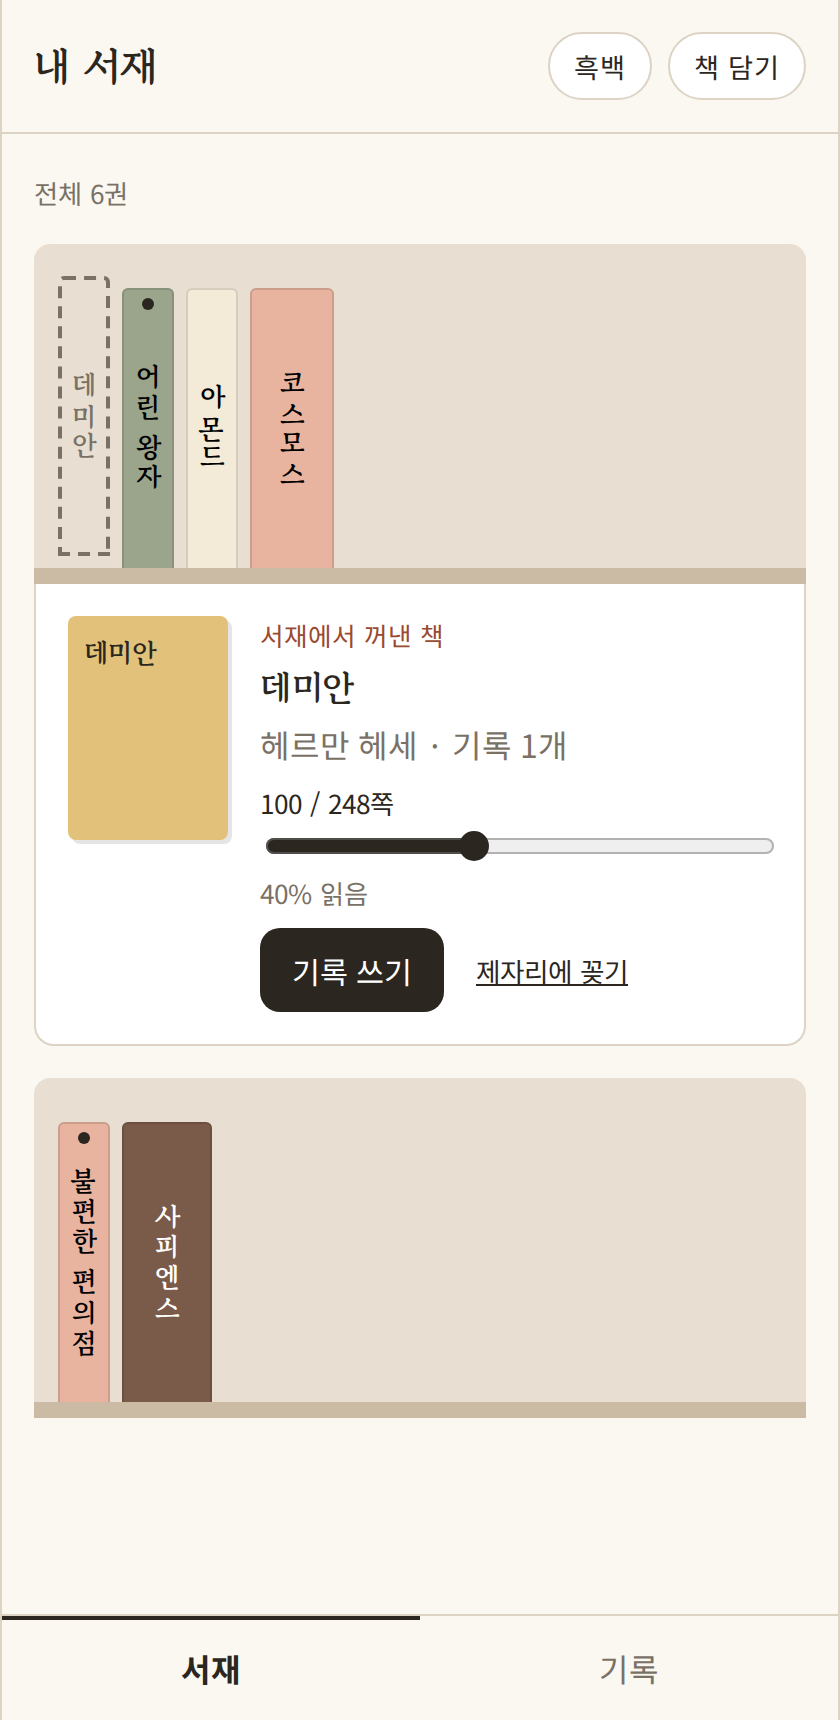
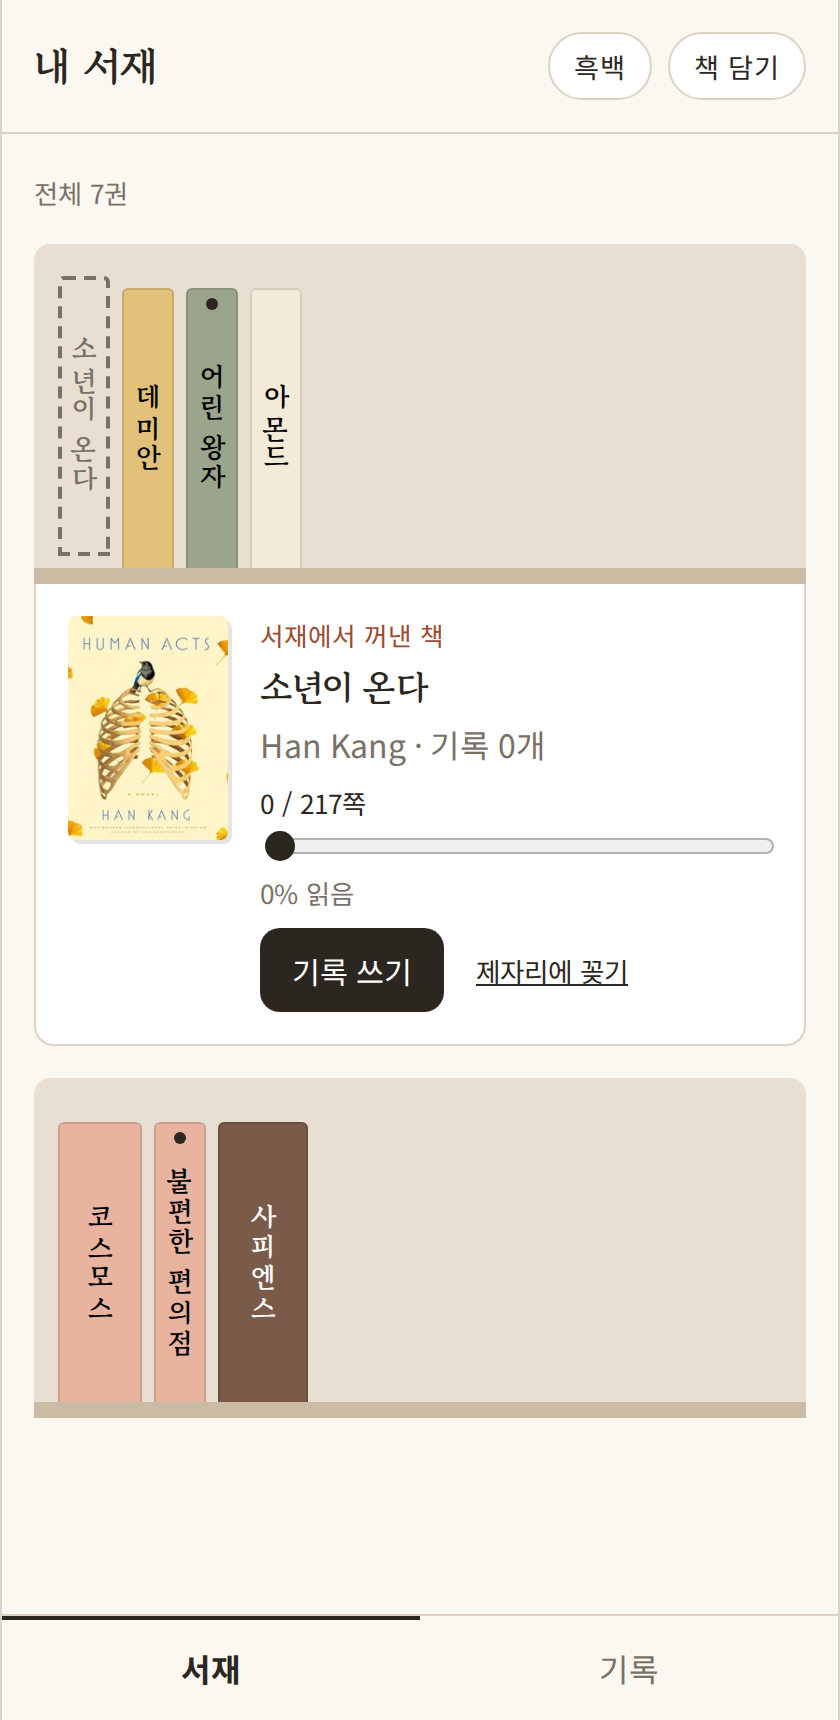
2차 보강: 실제 책 검색, ISBN 검색, 표지, GitHub Pages 배포
- Open Library 공개 API로 제목·저자 검색 (입력 지연 후 요청, 이전 요청 취소)
- 10·13자리 ISBN 입력 시 그 책을 바로 검색
- 서랍과 책 상세에 표지 사진 표시
- npm run deploy로 GitHub Pages(gh-pages 브랜치) 배포

diff --git a/src/pages/AddBookPage.jsx b/src/pages/AddBookPage.jsx
@@ -1,7 +1,8 @@
 import { useState } from 'react'
 import { useNavigate } from 'react-router-dom'
 import { useLibrary } from '../hooks/LibraryContext.jsx'
-import { searchCatalog } from '../data/catalog.js'
+import useBookSearch from '../hooks/useBookSearch.js'
+import { toIsbn } from '../api/bookSearch.js'
 
 const COLORS = ['ochre', 'sage', 'rose', 'cream', 'brown', 'navy']
 
@@ -10,12 +11,12 @@ export default function AddBookPage() {
   const navigate = useNavigate()
   const [keyword, setKeyword] = useState('')
   const [form, setForm] = useState({ title: '', author: '', pages: '' })
-
-  const results = searchCatalog(keyword)
+  const { results, status } = useBookSearch(keyword)
 
   const save = (book) => {
     const color = COLORS[Math.floor(Math.random() * COLORS.length)]
-    addBook({ ...book, pages: Number(book.pages) || 100, color })
+    const { id: _searchId, ...rest } = book
+    addBook({ ...rest, pages: Number(book.pages) || 200, color })
     navigate('/')
   }
 
@@ -29,26 +30,37 @@ export default function AddBookPage() {
     <div className="stack">
       <h1 className="page-title">책 담기</h1>
 
-      <section className="card">
+      <section className="card stack">
         <h2>검색해서 담기</h2>
         <input
           className="input"
-          placeholder="제목이나 저자로 검색"
+          placeholder="제목, 저자 또는 ISBN(바코드 숫자)"
           value={keyword}
           onChange={(e) => setKeyword(e.target.value)}
         />
-        {keyword && results.length === 0 && <p className="muted small">검색 결과가 없어요. 아래에서 직접 입력해 주세요.</p>}
+        {toIsbn(keyword) && <p className="muted small">ISBN으로 찾는 중이에요.</p>}
+        {status === 'loading' && <p className="muted small">찾는 중…</p>}
+        {status === 'offline' && <p className="muted small">인터넷 연결이 없어 예시 목록에서 찾았어요.</p>}
+        {status === 'done' && results.length === 0 && (
+          <p className="muted small">검색 결과가 없어요. 아래에서 직접 입력해 주세요.</p>
+        )}
         <ul className="results">
           {results.map((book) => (
-            <li key={book.title}>
-              <div>
+            <li key={book.id}>
+              {book.coverUrl
+                ? <img className="result-cover" src={book.coverUrl} alt="" loading="lazy" />
+                : <div className="result-cover placeholder" aria-hidden="true" />}
+              <div className="result-info">
                 <strong>{book.title}</strong>
-                <span className="muted small"> · {book.author} · {book.pages}쪽</span>
+                <span className="muted small">
+                  {[book.author, book.pages && `${book.pages}쪽`].filter(Boolean).join(' · ')}
+                </span>
               </div>
               <button className="btn small" onClick={() => save(book)}>담기</button>
             </li>
           ))}
         </ul>
+        <p className="muted small">도서 정보: Open Library</p>
       </section>
 
       <form className="card stack" onSubmit={onSubmit}>

diff --git a/src/index.css b/src/index.css
@@ -68,8 +68,12 @@ a { color: inherit; }
 .drawer { display: flex; gap: 16px; padding: 16px; background: #fff; border: 1px solid var(--line);
   border-top: 0; border-radius: 0 0 10px 10px; animation: open 0.2s ease-out; }
 @keyframes open { from { opacity: 0; transform: translateY(-6px); } }
-.drawer-cover { width: 80px; height: 112px; flex-shrink: 0; border-radius: 4px; padding: 8px;
-  font-family: 'Gowun Batang', serif; font-weight: 700; font-size: 0.85rem; box-shadow: 2px 2px 0 rgba(0,0,0,0.1); }
+.cover { flex-shrink: 0; border-radius: 4px; object-fit: cover; box-shadow: 2px 2px 0 rgba(0,0,0,0.1); background: var(--wood); }
+.cover-text { padding: 8px; font-family: 'Gowun Batang', serif; font-weight: 700; font-size: 0.85rem; }
+.drawer-cover { width: 80px; height: 112px; }
+.book-head { display: flex; gap: 16px; align-items: flex-start; }
+.book-cover { width: 96px; height: 136px; }
+.book-meta { flex: 1; min-width: 0; }
 .drawer-body { flex: 1; }
 .drawer-body h2 { margin: 0; }
 .progress { display: flex; flex-direction: column; gap: 2px; margin-top: 8px; }
@@ -79,7 +83,9 @@ a { color: inherit; }
 .card { background: #fff; border: 1px solid var(--line); border-radius: 12px; padding: 16px; }
 .input { width: 100%; border: 1px solid var(--line); border-radius: 8px; padding: 10px; font: inherit; background: var(--paper); }
 .results { list-style: none; padding: 0; margin: 8px 0 0; }
-.results li { display: flex; justify-content: space-between; align-items: center; padding: 8px 0; border-bottom: 1px solid var(--line); }
+.results li { display: flex; gap: 12px; align-items: center; padding: 8px 0; border-bottom: 1px solid var(--line); }
+.result-cover { width: 40px; height: 58px; flex-shrink: 0; border-radius: 3px; object-fit: cover; background: var(--wood); }
+.result-info { flex: 1; min-width: 0; display: flex; flex-direction: column; }
 
 /* 기록 */
 .record { background: #fff; border: 1px solid var(--line); border-radius: 12px; padding: 14px 16px; }

diff --git a/src/api/bookSearch.js b/src/api/bookSearch.js
@@ -1,0 +1,35 @@
+// 도서 검색: Open Library 공개 API (키 없이 사용 가능)
+// https://openlibrary.org/dev/docs/api/search
+const SEARCH_URL = 'https://openlibrary.org/search.json'
+const FIELDS = 'key,title,author_name,number_of_pages_median,cover_i,isbn'
+
+// 하이픈을 뺀 10자리 또는 13자리 숫자면 ISBN으로 본다 (책 뒷면 바코드 아래 숫자)
+export function toIsbn(text) {
+  const digits = text.replace(/[-\s]/g, '')
+  return /^(\d{9}[\dXx]|\d{13})$/.test(digits) ? digits : null
+}
+
+export function coverUrl(coverId, size = 'M') {
+  return coverId ? `https://covers.openlibrary.org/b/id/${coverId}-${size}.jpg` : null
+}
+
+export async function searchBooks(keyword, { signal } = {}) {
+  const isbn = toIsbn(keyword)
+  const params = new URLSearchParams({
+    q: isbn ? `isbn:${isbn}` : keyword.trim(),
+    fields: FIELDS,
+    limit: '10',
+  })
+  const res = await fetch(`${SEARCH_URL}?${params}`, { signal })
+  if (!res.ok) throw new Error(`검색 실패 (${res.status})`)
+  const data = await res.json()
+
+  return data.docs.map((doc) => ({
+    id: doc.key,
+    title: doc.title,
+    author: doc.author_name?.[0] ?? '',
+    pages: doc.number_of_pages_median ?? null,
+    coverUrl: coverUrl(doc.cover_i),
+    isbn: isbn ?? doc.isbn?.find((n) => n.length === 13) ?? null,
+  }))
+}

diff --git a/src/hooks/useBookSearch.js b/src/hooks/useBookSearch.js
@@ -1,0 +1,40 @@
+import { useEffect, useState } from 'react'
+import { searchBooks } from '../api/bookSearch.js'
+import { searchCatalog } from '../data/catalog.js'
+
+// 입력이 멈추고 0.4초 뒤에 검색하고, 새 입력이 오면 이전 요청은 취소한다
+export default function useBookSearch(keyword) {
+  const [results, setResults] = useState([])
+  const [status, setStatus] = useState('idle') // idle | loading | done | offline
+
+  useEffect(() => {
+    const q = keyword.trim()
+    if (q.length < 2) {
+      setResults([])
+      setStatus('idle')
+      return
+    }
+
+    const controller = new AbortController()
+    const timer = setTimeout(async () => {
+      setStatus('loading')
+      try {
+        const books = await searchBooks(q, { signal: controller.signal })
+        setResults(books)
+        setStatus('done')
+      } catch (err) {
+        if (err.name === 'AbortError') return
+        // 인터넷이 안 되면 내장된 예시 목록에서라도 찾아 준다
+        setResults(searchCatalog(q).map((b) => ({ ...b, id: b.title, coverUrl: null })))
+        setStatus('offline')
+      }
+    }, 400)
+
+    return () => {
+      clearTimeout(timer)
+      controller.abort()
+    }
+  }, [keyword])
+
+  return { results, status }
+}

diff --git a/src/pages/BookPage.jsx b/src/pages/BookPage.jsx
@@ -3,6 +3,7 @@ import { useNavigate, useParams } from 'react-router-dom'
 import { useLibrary } from '../hooks/LibraryContext.jsx'
 import ProgressInput from '../components/ProgressInput.jsx'
 import RecordCard from '../components/RecordCard.jsx'
+import Cover from '../components/Cover.jsx'
 
 export default function BookPage() {
   const { id } = useParams()
@@ -31,10 +32,14 @@ export default function BookPage() {
 
   return (
     <div className="stack">
-      <div>
-        <h1 className="page-title">{book.title}</h1>
-        <p className="muted">{book.author}</p>
-        <ProgressInput book={book} />
+      <div className="book-head">
+        <Cover book={book} className="book-cover" />
+        <div className="book-meta">
+          <h1 className="page-title">{book.title}</h1>
+          <p className="muted">{book.author}</p>
+          {book.isbn && <p className="muted small">ISBN {book.isbn}</p>}
+          <ProgressInput book={book} />
+        </div>
       </div>
 
       <form className="card stack" onSubmit={onSubmit}>

diff --git a/src/components/Drawer.jsx b/src/components/Drawer.jsx
@@ -1,12 +1,13 @@
 import { Link } from 'react-router-dom'
 import ProgressInput from './ProgressInput.jsx'
+import Cover from './Cover.jsx'
 
 // 책을 누르면 그 줄 아래에 열리는 서랍
 export default function Drawer({ book, recordCount, onClose }) {
   const percent = book.pages ? Math.round((book.currentPage / book.pages) * 100) : 0
   return (
     <section className="drawer">
-      <div className={`drawer-cover spine-${book.color ?? 'cream'}`}>{book.title}</div>
+      <Cover book={book} className="drawer-cover" />
       <div className="drawer-body">
         <p className="eyebrow">서재에서 꺼낸 책</p>
         <h2>{book.title}</h2>

diff --git a/src/components/Cover.jsx b/src/components/Cover.jsx
@@ -1,0 +1,7 @@
+// 표지 사진이 있으면 사진을, 없으면 책등 색에 제목을 써서 보여 준다
+export default function Cover({ book, className = '' }) {
+  if (book.coverUrl) {
+    return <img className={`cover ${className}`} src={book.coverUrl} alt={`${book.title} 표지`} />
+  }
+  return <div className={`cover cover-text spine-${book.color ?? 'cream'} ${className}`}>{book.title}</div>
+}

diff --git a/vite.config.js b/vite.config.js
@@ -1,6 +1,8 @@
 import { defineConfig } from 'vite'
 import react from '@vitejs/plugin-react'
 
-export default defineConfig({
+// GitHub Pages 주소(/my-library-web/)에서 열리도록 배포할 때만 base를 바꾼다
+export default defineConfig(({ command, isPreview }) => ({
+  base: command === 'build' || isPreview ? '/my-library-web/' : '/',
   plugins: [react()],
-})
+}))

diff --git a/src/main.jsx b/src/main.jsx
@@ -7,7 +7,7 @@ import './index.css'
 
 ReactDOM.createRoot(document.getElementById('root')).render(
   <React.StrictMode>
-    <BrowserRouter>
+    <BrowserRouter basename={import.meta.env.BASE_URL}>
       <LibraryProvider>
         <App />
       </LibraryProvider>

diff --git a/README.md b/README.md
@@ -1,20 +1,29 @@
 # 내 서재 (웹)
 
 읽은 책과 밑줄 친 문장, 그때 든 생각을 책별로 모아 두는 개인 독서 기록 웹앱입니다.
-오즈코딩스쿨 KDT **2차 프로젝트**로, 1차 때 기획한 ‘내 서재’의 핵심 흐름을 React로 구현했습니다.
+오즈코딩스쿨 KDT **2차 프로젝트**입니다. 1차에서 Expo 앱으로 만든 ‘내 서재’를 수업에서 배운 React로 웹에 옮기고, 1차 발표 때 정한 다음 목표(실제 책 검색, 진도 갱신, 지난 기록 다시 만나기)를 구현했습니다.
 
-| 서재 | 책을 꺼낸 서랍 | 책 검색 | 기록 탭 |
+**바로 열어 보기:** https://leeyuul0g-beep.github.io/my-library-web/
+
+| 서재와 서랍 | 책 검색 | ISBN 검색 | 기록 탭 |
 | --- | --- | --- | --- |
-| ![서재](docs/screenshots/shelf.png) | ![서랍](docs/screenshots/drawer.png) | ![검색](docs/screenshots/search.png) | ![기록](docs/screenshots/records.png) |
+| ![서랍](docs/screenshots/drawer.png) | ![검색](docs/screenshots/search.png) | ![ISBN](docs/screenshots/isbn.png) | ![기록](docs/screenshots/records.png) |
 
 ## 주요 기능
 
+**2차에 새로 넣은 것**
+- **실제 책 검색**: Open Library 공개 API로 제목·저자 검색, 표지 사진까지 담기
+- **ISBN 검색**: 책 뒷면 바코드 아래 숫자(10·13자리)를 넣으면 그 책을 바로 찾음
+- **진도 갱신**: 슬라이더 하나로 읽은 쪽수를 바로 저장
+- **지난 기록 다시 만나기**: 기록 탭 맨 위에 예전 문장을 하나씩 보여 줌
+- **웹 배포**: 설치 없이 휴대폰·PC 브라우저에서 바로 열림 (GitHub Pages)
+
+**1차 앱에서 웹으로 옮긴 것**
 - **서재와 책등**: 쪽수만큼 두꺼운 책등, 세로로 쓴 제목. 다 읽은 책은 점으로 표시
 - **줄 아래 서랍**: 책을 누르면 그 줄 바로 아래에 저자·진도·기록 쓰기가 열리고, 꺼낸 자리는 점선으로 남음
-- **진도 갱신**: 슬라이더 하나로 읽은 쪽수를 바로 저장
-- **책 담기**: 제목·저자 검색(예시 도서 목록) 또는 직접 입력
+- **책 담기**: 검색해서 담거나 직접 입력
 - **기록 쓰기**: 밑줄 친 문장, 생각, 쪽수를 책에 붙여 저장
-- **기록 모아보기**: 전체 기록 검색, ‘지난 기록 다시 만나기’
+- **기록 모아보기**: 문장·생각·책 제목으로 전체 기록 검색
 - **흑백 모드**: 버튼 하나로 화면 전체를 흑백으로 전환
 
 ## 실행 방법
@@ -26,38 +35,43 @@ npm run dev
 
 브라우저에서 http://localhost:5173 을 엽니다. 데이터는 브라우저의 localStorage에 저장됩니다.
 처음 실행하면 예시 책 6권과 기록 3개가 들어 있습니다(브라우저 저장소를 지우면 초기화).
+책 검색은 인터넷이 필요하고, 연결이 없으면 내장된 예시 목록에서 찾습니다.
 
 ## 기술 스택
 
 - React 18, Vite
 - React Router (화면 4개: 서재 `/`, 책 담기 `/add`, 책 상세 `/books/:id`, 기록 `/records`)
 - Context API + 직접 만든 `useLocalStorage` 훅
+- `fetch` + `AbortController`로 Open Library 검색 (입력이 멈춘 뒤 0.4초 후 요청, 이전 요청 취소)
+- GitHub Pages 배포 (`npm run deploy` → gh-pages 브랜치)
 
 ## 폴더 구조
 
 ```
 src/
 ├─ App.jsx                 라우팅, 흑백 모드
+├─ api/bookSearch.js       Open Library 검색, ISBN 판별, 표지 주소
 ├─ hooks/
 │  ├─ LibraryContext.jsx   책·기록 상태와 추가/삭제 함수
-│  └─ useLocalStorage.js   localStorage 자동 저장 훅
+│  ├─ useLocalStorage.js   localStorage 자동 저장 훅
+│  └─ useBookSearch.js     검색 지연·취소·오프라인 대체
 ├─ pages/                  ShelfPage, AddBookPage, BookPage, RecordsPage
-├─ components/             Header, TabBar, Spine, Drawer, ProgressInput, RecordCard
+├─ components/             Header, TabBar, Spine, Drawer, Cover, ProgressInput, RecordCard
 └─ data/                   예시 데이터, 검색용 도서 목록
 ```
 
 ## 1차 → 2차
 
-| 1차 때 정한 다음 목표 | 2차 결과 |
+| 1차 발표 때 정한 다음 목표 | 2차 결과 |
 | --- | --- |
-| 책 검색으로 등록 | 구현 (예시 도서 목록 검색) |
-| 진도를 한 번에 갱신 | 구현 (서랍 안 슬라이더) |
-| 지난 기록 다시 만나기 | 구현 (기록 탭 상단) |
-| 도서 API · 계정 동기화 | 3차 목표 |
+| 책 검색·바코드로 등록 | 구현: 실제 도서 API 검색 + ISBN 검색 + 표지 |
+| 모든 화면을 서가 디자인으로 통일 | 구현: 4개 화면 같은 톤 |
+| 진도 한 번에 갱신, 지난 기록 다시 만나기 | 구현: 서랍 안 슬라이더, 기록 탭 상단 |
+| 실제 기기 검증, 계정 동기화 | 일부: 웹 배포로 기기 상관없이 열림 / 동기화는 3차 |
 
 ## 3차 계획
 
-- [ ] 도서 검색 Open API 연동
-- [ ] 로그인과 서버 저장
-- [ ] 배포와 반응형 레이아웃
+- [ ] 로그인과 서버 저장 (다른 기기에서 같은 서재)
+- [ ] 카메라로 바코드 찍어서 담기, 한국 책 검색 정확도 높이기(카카오 책 검색)
 - [ ] 기록에 사진 첨부
+- [ ] 테스트(Vitest)와 PC 화면 레이아웃
